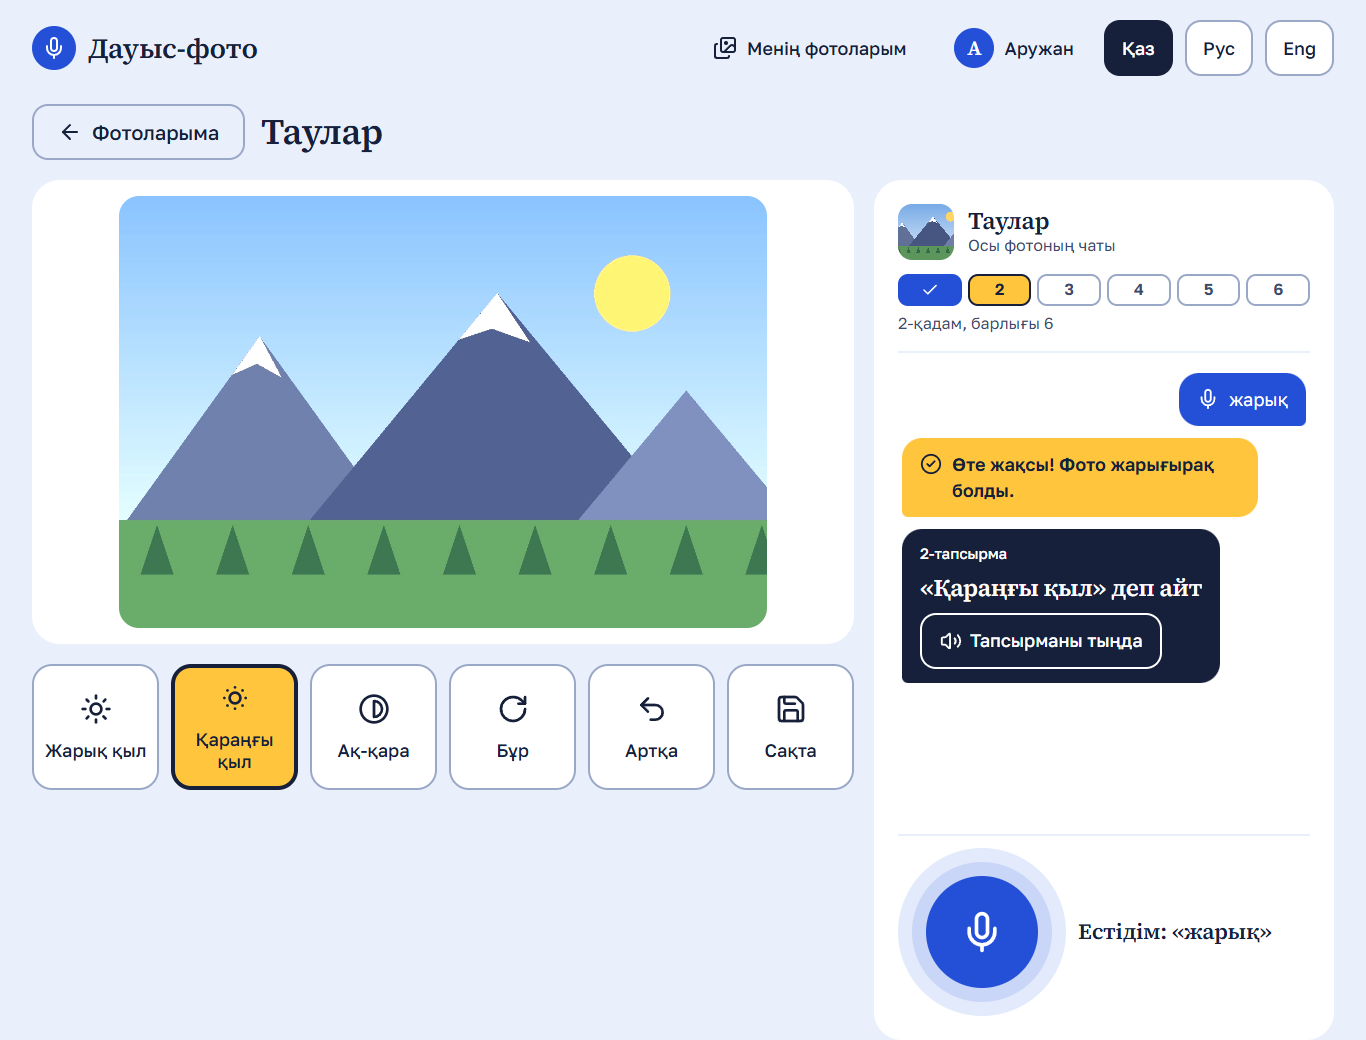
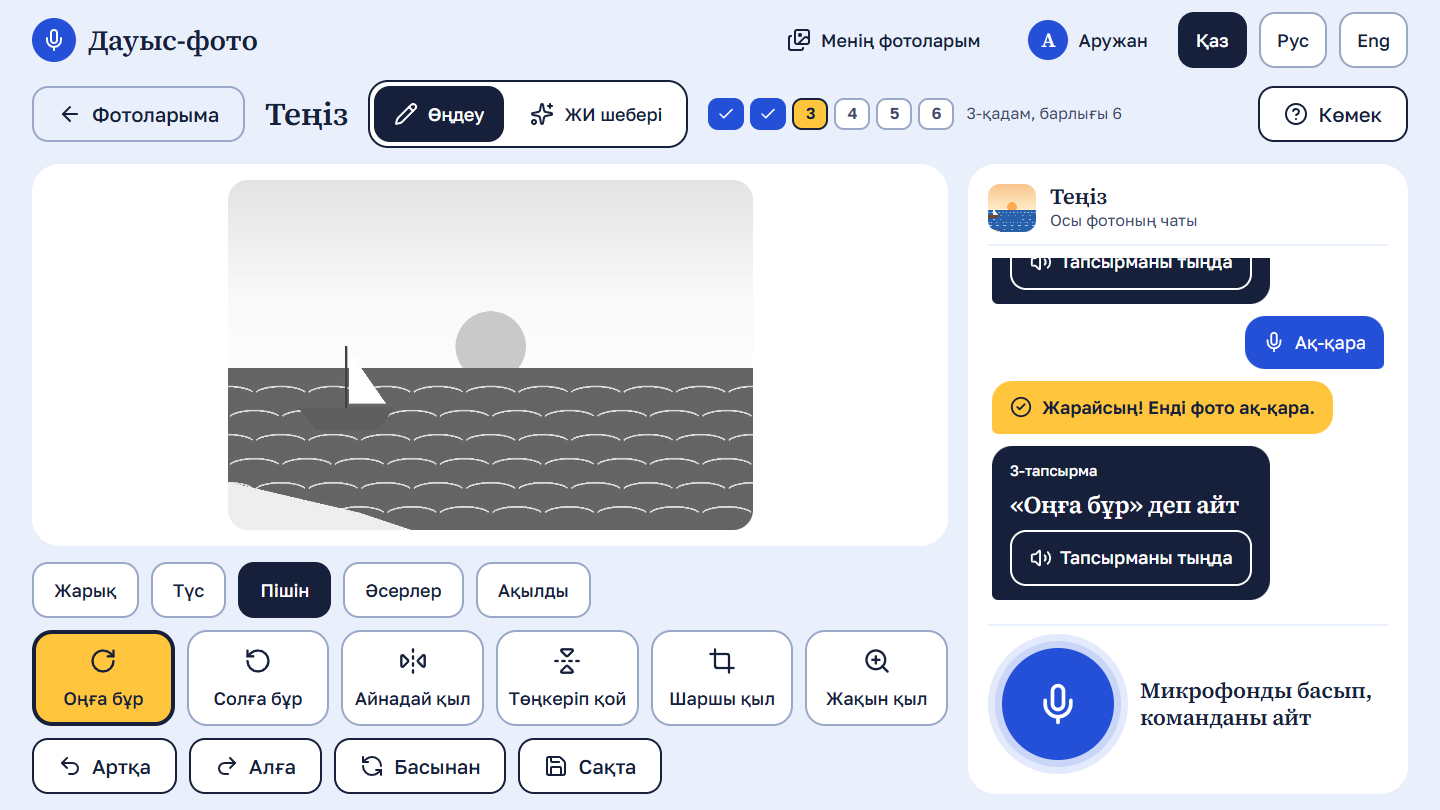
docs: README for both modes, measured recognition accuracy, CLAUDE.md

diff --git a/README.md b/README.md
@@ -1,13 +1,19 @@
 # Dauys-Foto (Дауыс-фото)
 
-A voice user interface that teaches children with **dyspraxia** to use basic photo
-editing tools. Dyspraxia makes small targets, dragging and precise clicks hard,
-while thinking is unaffected. So the app is driven by voice, and every action
-also has a very large button as a fallback.
+A voice user interface that teaches children with **dyspraxia** to use photo
+editing tools, from simple filters to generative AI. Dyspraxia makes small
+targets, dragging and precise clicks hard, while thinking is unaffected. So the
+app is driven by voice, and every action also has a very large button as a
+fallback.
 
 The interface, voice commands, speech recognition and spoken feedback work in
-**Kazakh (default), Russian and English**. Everything is free and runs locally;
-after the first setup no internet connection is needed.
+**Kazakh (default), Russian and English**. Two modes:
+
+- **Өңдеу (Edit)**: 27 editing commands, all free and local. After the first
+  setup it works without internet.
+- **ЖИ шебері (AI Studio)**: the child describes a change or a new picture in
+  their own words, and a generative AI model draws it. This mode uses free
+  online services and needs keys (see [AI Studio](#ai-studio)).
 
 University HCI coursework project.
 
@@ -18,46 +24,62 @@ University HCI coursework project.
 1. Signs up (name, username, password twice) or logs in.
 2. Picks one of their photos. Three sample scenes (mountains, sea, city) are
    ready for every new user; they can also upload their own.
-3. Hears and reads a task, for example «Жарық қыл» деп айт, presses the big
-   microphone once and says the command. Pressing the matching tile works too,
-   and so do Tab and Enter.
+3. **Edit mode.** Hears and reads a task, for example «Жарық қыл» деп айт,
+   presses the big microphone once and says the command. Pressing the tile works
+   too, and so do Tab and Enter. Tools come in groups (Light, Colour, Shape,
+   Effects, Smart) so the child sees only a few tiles at once; Undo, Redo,
+   Start over and Save are always visible. «Көмек» lists everything that can be
+   said, with a speaker button for each command.
 4. After the first request a chat slides in. The assistant praises, explains
-   what it heard, and gives the next task. Six steps: brighten, darken,
-   black and white, undo, rotate, save.
-5. After the sixth step: before/after photos, the words learned, and free mode.
+   what it heard, and gives the next task. The six lesson steps visit every
+   group once: brighten, black and white, rotate, blur, undo, auto-enhance.
+5. **AI Studio.** The child says an idea («аспанға кемпірқосақ қос», «сделай
+   как мультик», "draw a cat in space") or presses an idea tile. The AI's
+   picture is shown next to the old one and the child chooses «Қалдыр» (keep)
+   or «Қайтар» (go back), by button or by voice. Kept edits join the same undo
+   history; a kept new picture becomes a new photo. A three-step lesson teaches
+   adding something, changing the style, and removing something.
 
-Each child sees only their own photos and chats; the chat is saved per photo.
+Each child sees only their own photos, chats and AI pictures.
 
 ## Architecture
 
 ```
-Browser (React + TypeScript, Vite)               Backend (Django + DRF, SQLite)
-──────────────────────────────────               ───────────────────────────────
-voice/   microphone → 16 kHz WAV ───────────────▶ speech/  Vosk, grammar = command phrases
-editor/  canvas pixel operations + undo           photos/  upload, edited versions
-chat/    message list, bubbles                    chats/   messages, lesson progress,
+Browser (React + TypeScript, Vite)                 Backend (Django + DRF, SQLite)
+──────────────────────────────────                 ───────────────────────────────
+voice/   microphone → 16 kHz WAV ─────────────────▶ speech/  Vosk, grammar from
+                                                            shared/commands.json
+editor/  27 commands: canvas pixel operations,     ai/      rembg (local), AI studio:
+         undo/redo; background removal ──────────▶          providers/ gemini, cloudflare
+ai/      AI studio: ideas, keep / go back  ◀──────▶          daily counter, results
+chat/    message list, bubbles                     chats/   messages, both lessons,
 lesson/  task card, step bar, finish view  ◀────────────── rule-based assistant.reply()
-auth/    JWT login, auto token refresh   ◀──────▶ accounts/ register, login, profile
+auth/    JWT login, auto token refresh     ◀──────▶ accounts/ register, login, profile
+                                                   photos/  upload, edited versions
 ```
 
-- **Frontend** (`frontend/src`): `app/` (router, layout), `pages/`, `features/`
-  (auth, voice, editor, chat, lesson, photos), `shared/` (UI components, HTTP
-  client, translations, design tokens). State: React state and one small
-  `zustand` store for the session. Styles: CSS Modules. Animation: `motion`.
-- **Backend** (`backend/`): one Django app per area. Every query is filtered by
-  the logged-in user (`photos_of(request.user)`); another user's photo returns
-  404. Tests prove it.
-- **One command registry.** Command ids live in
-  `frontend/src/features/editor/commands.ts`; the words for them in each
-  language live in `frontend/src/shared/i18n/*.json` and
-  `backend/speech/phrases/*.py`. A backend test fails if the two lists differ.
+- **One vocabulary file.** `shared/commands.json` lists every command with its
+  group and, per language, its label, the sentence describing its effect, and
+  the phrases a child can say. The backend builds the speech grammars from it;
+  the frontend imports the same file for tiles, help and matching. They cannot
+  drift apart; tests check that every command is complete in every language and
+  that no phrase belongs to two commands.
 - **Editing happens in the browser.** Pixel operations are pure functions
-  (`engine.ts`), so undo just keeps earlier bitmaps. “Save” uploads the result
-  as the photo's new version and offers a download.
-- **The assistant is rule-based** (`backend/chats/assistant.py`): templates
-  with variations, no external AI. It sits behind one function,
-  `reply(command, lesson_state, lang)`, so a language model could replace it
-  without changing the views or the UI.
+  (`frontend/src/features/editor/engine.ts`), so undo just keeps earlier
+  bitmaps. Only background removal runs on the backend, with the free local
+  model rembg.
+- **Chat in the current language.** The assistant's replies are stored as a
+  template key plus parameters and turned into words by the frontend, so after a
+  language switch the whole chat reads in the new language. The child's own
+  words stay as they were spoken.
+- **The rule-based assistant** (`backend/chats/assistant.py`) sits behind one
+  function, `reply(command, lesson_state, …)`, so a language model could replace
+  it without changing the views or the UI.
+- **AI providers behind one interface** (`backend/ai/providers/base.py`:
+  `transcribe`, `understand_request`, `edit_image`, `generate_image`). Which
+  service does what is chosen in `.env`.
+- **Isolation.** Every query is filtered by the logged-in user; another user's
+  photo, chat or AI picture returns 404. Tests prove it.
 
 ## How speech recognition works
 
@@ -65,24 +87,130 @@ Browser speech recognition is unreliable for Kazakh, so recognition runs on the
 backend with [Vosk](https://alphacephei.com/vosk/), a free offline engine.
 
 1. One press on the microphone starts listening. The browser captures audio with
-   the Web Audio API (an `AudioWorklet`), measures loudness, and stops by itself
-   after about 1.5 s of silence following speech, or after 6 s, or on a second
-   press. Nobody has to hold a button.
+   the Web Audio API (an `AudioWorklet`) and stops by itself after about 1.5 s
+   of silence following speech, or after 6 s, or on a second press.
 2. The audio is downsampled to 16 kHz mono and encoded as a 16-bit PCM WAV in
    JavaScript (`features/voice/wav.ts`), so the backend reads it with Python's
    `wave` module. **No ffmpeg is needed.**
 3. `POST /api/speech/recognize/` runs Vosk with a **grammar**: only the command
-   phrases of that language plus `[unk]`. Restricting the vocabulary makes
-   recognition much more accurate, which matters for children's voices.
-   Every phrase was checked against the model vocabulary.
-4. The response is `{ "text": "...", "command": "grayscale" | null }`.
+   phrases of that language (with "a little" / "a lot" variants such as
+   «сәл жарық қыл», "чуть светлее", "much brighter") plus `[unk]`. Every phrase
+   uses words that exist in the model's vocabulary.
+4. The text is matched to a command. The longest phrase wins; when Vosk returns
+   only part of a phrase («жарқын» for «жарқын қыл»), a command is still chosen
+   if the words heard belong to that command alone.
+5. The response is `{ "text": "...", "command": "grayscale", "intensity": "little" | "lot" | null }`.
 
-Models (small, ~40–60 MB each): `vosk-model-small-kz-0.42`,
-`vosk-model-small-ru-0.22`, `vosk-model-small-en-us-0.15`. Each is loaded once,
-on first use, and then reused.
+Models: `vosk-model-small-kz-0.42`, `vosk-model-small-ru-0.22`,
+`vosk-model-small-en-us-0.15` (40–60 MB each), loaded once and reused.
+
+### Measured accuracy
+
+Measured on 10 October 2026 with neural text-to-speech voices (two voices per
+language, every phrase of every command), not with real children:
+
+| Model | Clean voice | Higher pitch, slower, light noise |
+|---|---|---|
+| Kazakh, small model + grammar | 264 / 264 (100%) | 246 / 264 (93%) |
+| Russian, small model + grammar | 265 / 265 (100%) | 261 / 261 (100%) |
+| English, small model + grammar | 278 / 278 (100%) | 218 / 278 (78%) |
+| Kazakh, **large** model `vosk-model-kz-0.42` (1.4 GB) | 208 / 264 (79%) | 64 / 264 (24%) |
+
+The large Kazakh model cannot use a grammar, so it transcribes freely and does
+worse on short commands. The small model with the grammar is the right choice
+for commands. A smaller run through the real browser microphone flow (WAV fed
+to Chrome as a fake microphone) gave the same picture: 24 of 24 clean phrases,
+and 7/8 (kk), 8/8 (ru), 4/8 (en) for the child-like variants. Real children's
+voices still need user testing.
 
 Spoken feedback uses the browser's free `speechSynthesis` with a voice for the
 current language.
+
+## AI Studio
+
+### Which services, and what is free
+
+Checked on the official pages on 10 October 2026:
+
+- **Google Gemini API**: the text models (for example `gemini-3.5-flash-lite`)
+  are free of charge on the free tier, including audio input, with a key from
+  Google AI Studio and **no bank card**. Gemini's image models (the
+  "Nano Banana" family, `gemini-2.5-flash-image` and newer) are **not available
+  on the free tier**, so Gemini is used only to transcribe and understand.
+  Google does not publish fixed free limits any more; each project's limits are
+  shown at https://aistudio.google.com/rate-limit.
+- **Cloudflare Workers AI**: the free plan includes **10,000 "neurons" per day**
+  (reset at 00:00 UTC). It hosts **FLUX.2 [klein] 4B**
+  (`@cf/black-forest-labs/flux-2-klein-4b`), which both edits a photo from a
+  text instruction and draws new pictures. One 1024 × 688 edit costs about
+  110 neurons, so the free allowance is roughly 80–90 pictures per day for the
+  whole account. Cloudflare also offers Whisper for speech
+  (about 47 neurons per audio minute) and Llama 3.3 70B for understanding.
+- Hugging Face's free monthly credit is too small for image models, and
+  Pollinations offers no stable, keyed way to edit an uploaded photo, so they
+  were not used.
+
+So: **Gemini listens and understands, Cloudflare draws.** With only a
+Cloudflare token the studio still works (Cloudflare does all four jobs), but
+Gemini understands Kazakh better.
+
+### Getting the keys (once, by a grown-up)
+
+1. **Gemini**: open https://aistudio.google.com/apikey, sign in with a Google
+   account, press **Create API key**, copy it.
+2. **Cloudflare**: create a free account at https://dash.cloudflare.com/sign-up.
+   Open the Workers AI page (https://dash.cloudflare.com/?to=/:account/ai/workers-ai)
+   and select **Use REST API**. Press **Create a Workers AI API Token**, then
+   **Create API Token**, and copy it. Copy the **Account ID** from the same page.
+3. Put them into `.env` in the project root (never into the frontend, never
+   into Git; `.env` is git-ignored):
+
+   ```
+   GEMINI_API_KEY=your-gemini-key
+   CLOUDFLARE_ACCOUNT_ID=your-account-id
+   CLOUDFLARE_API_TOKEN=your-token
+   ```
+
+4. Restart the backend. The «ЖИ шебері» button now opens the studio.
+
+Without keys, the studio opens and explains in friendly words that a grown-up
+needs to connect it; Edit mode keeps working fully offline.
+
+### One request, step by step
+
+1. **Speech to text, free-form.** The command grammar cannot be used for free
+   speech, so the provider transcribes the WAV (Gemini audio understanding, or
+   Whisper on Cloudflare). With `AI_TRANSCRIBE_WITH=vosk` Vosk transcribes
+   offline instead; quality is clearly lower (see the table above), but it
+   saves quota. `download_models.py --large-kk` fetches the large Kazakh model
+   for this.
+2. **Understand.** The text model answers with strict JSON:
+   `{ intent: edit | generate | local_command | unclear | refused, command, prompt_en, edit_kind, reply }`.
+   A plain editing command («жарық қыл») is done locally instead of spending an
+   AI request. `reply` is cut to two short sentences on the server.
+3. **Draw.** FLUX.2 edits the current picture or draws a new one.
+4. **Choose.** Before and after are shown side by side; nothing is applied
+   until the child says or presses «Қалдыр».
+5. Everything goes into the photo's chat, with a small thumbnail of the result.
+   Idea tiles skip steps 1 and 2.
+
+### Child safety, privacy and limits
+
+- Gemini runs with the strictest safety setting (`BLOCK_LOW_AND_ABOVE`) in every
+  category. The system instruction says the user is a child and lists what to
+  refuse (violence, scary or adult content, real people, personal data, changing
+  a person's face or body); a refused request gets a gentle reply with another
+  idea. Every image prompt also ends with "suitable for young children".
+  FLUX on Cloudflare has no configurable safety filter, so the text model's
+  screening is the main guard; this is a known limitation.
+- **Privacy:** in the AI Studio the photo and the child's words are sent to
+  Google and Cloudflare. A grown-up sees a one-time notice and confirms it
+  (stored in the profile). Prefer the sample photos in demos.
+- **Cost guard:** each user may make `AI_DAILY_LIMIT` AI requests per day
+  (default 30). Requests that fail because a service is unreachable do not count.
+- Waiting shows a calm, gently pulsing «Сурет салып жатырмын…», never a
+  countdown. Limits and network problems are explained kindly, with a button
+  back to Edit mode. Nothing is red.
 
 ## Setup on Windows (PowerShell)
 
@@ -93,10 +221,11 @@ Requirements: Python 3.11+, Node.js 20+, Git. All commands run from the project 
 python -m venv .venv
 .\.venv\Scripts\python.exe -m pip install -r backend\requirements.txt
 
-# 2. Settings: copy the example and put a long random value in DJANGO_SECRET_KEY
+# 2. Settings: copy the example and put a long random value in DJANGO_SECRET_KEY.
+#    For the AI Studio also add the keys (see "Getting the keys").
 Copy-Item .env.example .env
 
-# 3. Database and speech models (about 150 MB download, once)
+# 3. Database and offline models (Vosk ~150 MB + rembg 176 MB, once)
 .\.venv\Scripts\python.exe backend\manage.py migrate
 .\.venv\Scripts\python.exe backend\scripts\download_models.py
 
@@ -128,20 +257,17 @@ browser sees one origin.
 ## Tests and linters
 
 ```powershell
-# Backend: auth, ownership isolation, assistant, speech endpoint (recogniser mocked)
-.\.venv\Scripts\python.exe backend\manage.py test accounts photos chats speech
+# Backend: auth, isolation, assistant, vocabulary, speech endpoint, AI studio (providers mocked)
+.\.venv\Scripts\python.exe backend\manage.py test accounts photos chats speech ai
 .\.venv\Scripts\python.exe -m ruff check backend
 .\.venv\Scripts\python.exe -m ruff format --check backend
 
-# Frontend: command matching, canvas engine, WAV encoding, silence detection
+# Frontend: command registry, canvas operations, undo/redo, matching, WAV, silence detection
 npm --prefix frontend test
 npm --prefix frontend run lint
 npm --prefix frontend run format:check
 npm --prefix frontend run typecheck
 ```
-
-Run the backend tests from the project root as shown, or `manage.py test` from
-inside `backend\`.
 
 ## Design rules from dyspraxia
 
@@ -150,25 +276,27 @@ inside `backend\`.
 - No drag and drop, double click, hover-only actions, sliders, press-and-hold,
   tiny close icons, or typing after login (profile settings are buttons only).
 - Nothing is timed against the child; messages stay until the situation changes.
-- Every edit can be undone. Errors are never red and never blame the child.
+- Every edit can be undone, including kept AI pictures. Errors are never red and
+  never blame the child.
 - Every command works by voice, tile click, and keyboard (Tab + Enter).
+- On a desktop screen the editor fits the window: only the chat scrolls, and the
+  microphone is always visible. Opening a tool group never moves it.
 - Animations are short and soft; under `prefers-reduced-motion` only fades remain.
 
 ## Known limitations
 
+- **Children's voices:** recognition was measured with synthetic voices, not
+  with children. English is the weakest with high-pitched voices.
 - **Kazakh spoken feedback:** most computers have no Kazakh voice for
-  `speechSynthesis`. Then the app stays silent (it does not read Kazakh with a
-  Russian voice) and the child relies on the text on screen.
-- **Recognition is limited to commands on purpose.** Free speech is reported as
-  “not a command”, so the assistant cannot quote exactly what a child said
-  when it was not a command.
-- Recognition was tested with synthesized voices and a fake microphone, not
-  with real children. Accuracy for children's voices still needs user testing.
+  `speechSynthesis`. Then the app stays silent and the child relies on the text.
+- **AI Studio needs internet and keys**, and the free quotas belong to the
+  services: they may change. The AI's own replies are written in the language
+  the child spoke; unlike the rule-based replies they do not change after a
+  language switch.
+- **AI image safety** depends on the text model's screening and on the image
+  model; FLUX on Cloudflare has no safety switch of its own.
 - **Windows and non-Latin paths:** Vosk cannot open models in a folder whose
   path has non-Latin letters. The backend passes the short 8.3 path instead;
-  if that is disabled on a machine, set `VOSK_MODELS_DIR` in `.env` to a Latin
-  path and run the download script again.
+  if that is disabled, set `VOSK_MODELS_DIR` in `.env` to a Latin path.
 - The development servers are meant for local use only; there is no production
   deployment setup.
-- The JavaScript bundle is about 550 kB (175 kB gzipped); code splitting was
-  not needed for local use.

diff --git a/CLAUDE.md b/CLAUDE.md
@@ -1,0 +1,42 @@
+# CLAUDE.md
+
+Notes for working on this repository. `README.md` explains the product and setup;
+`CLAUDE_CODE_PROMPT.md` and `PROMPT_STAGE2.md` are the original briefs and their
+design and dyspraxia rules still apply.
+
+## Layout
+
+- `shared/commands.json`: the only place command ids, groups, labels, effect
+  sentences and spoken phrases live (kk, ru, en). Backend: `speech/vocabulary.py`.
+  Frontend: imported in `features/editor/commands.ts` and merged into i18n as
+  `commands.<id>.*` and `choices.<id>.*`. Add a command here, then give it an icon
+  and (if it changes pixels) a transform in `commands.ts`.
+- Every spoken phrase must exist in the small Vosk model's vocabulary, or Vosk
+  silently drops it from the grammar. Check new words before adding them.
+- `backend/chats/assistant.py`: rule-based replies. It returns template keys plus
+  params; the wording is in `frontend/src/shared/i18n/*.json` under `assistant`
+  and is rendered by `features/chat/messageText.ts`. Never store final assistant
+  text for rule-based replies.
+- `backend/ai/`: rembg background removal and the AI Studio. Providers implement
+  `providers/base.py`; `providers/__init__.py` picks them from `.env`.
+  `services.py` is the request pipeline; `usage.py` the daily counter.
+
+## Commands (PowerShell, project root)
+
+```powershell
+.\.venv\Scripts\python.exe backend\manage.py test accounts photos chats speech ai
+.\.venv\Scripts\python.exe -m ruff check backend; .\.venv\Scripts\python.exe -m ruff format backend
+npm --prefix frontend test; npm --prefix frontend run lint; npm --prefix frontend run typecheck
+npm --prefix frontend run format
+```
+
+## Conventions
+
+- Only the colour tokens in `shared/styles/tokens.css`; no shadows except the
+  microphone rings; no red; targets ≥ 56 px, tiles ≥ 96 px, microphone 112 px.
+- Every queryset goes through `photos_of(request.user)` / `own_photo(...)`;
+  add an isolation test for every new endpoint.
+- Tests never call external services: mock `ai.services.text_provider` /
+  `image_provider` (see `ai/tests.py`, `FakeProvider`).
+- Strict TypeScript, no `any`, no non-null assertions, no console logs.
+- Commits: conventional style (`feat:`, `fix:`, `docs:`, `chore:`).
